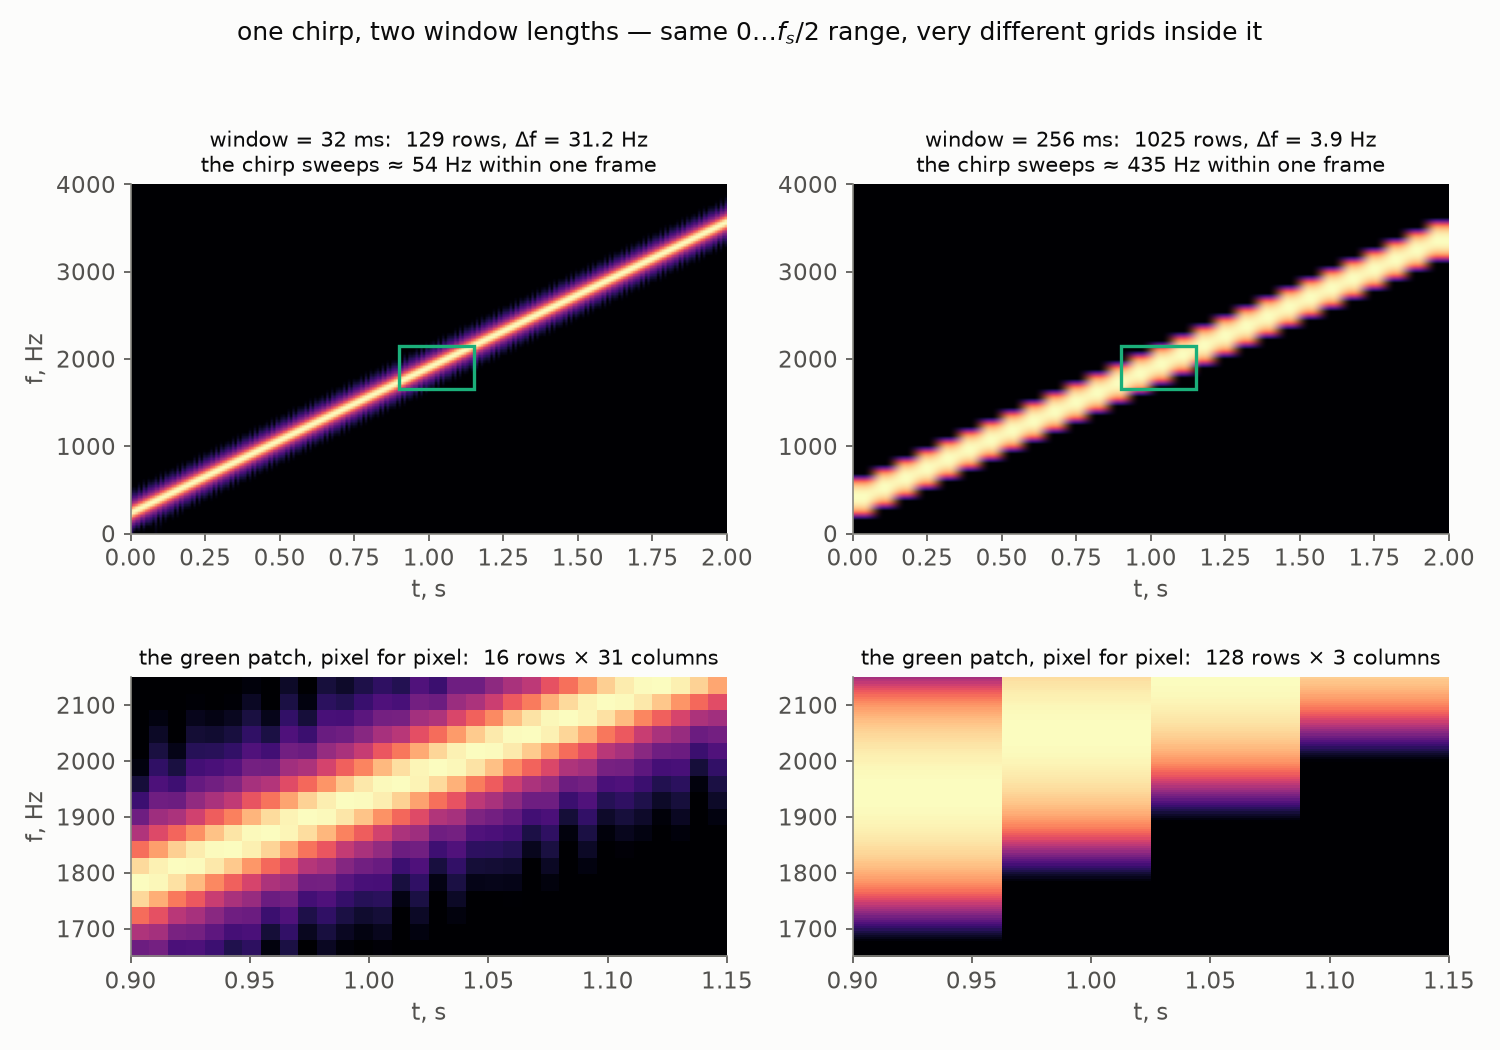
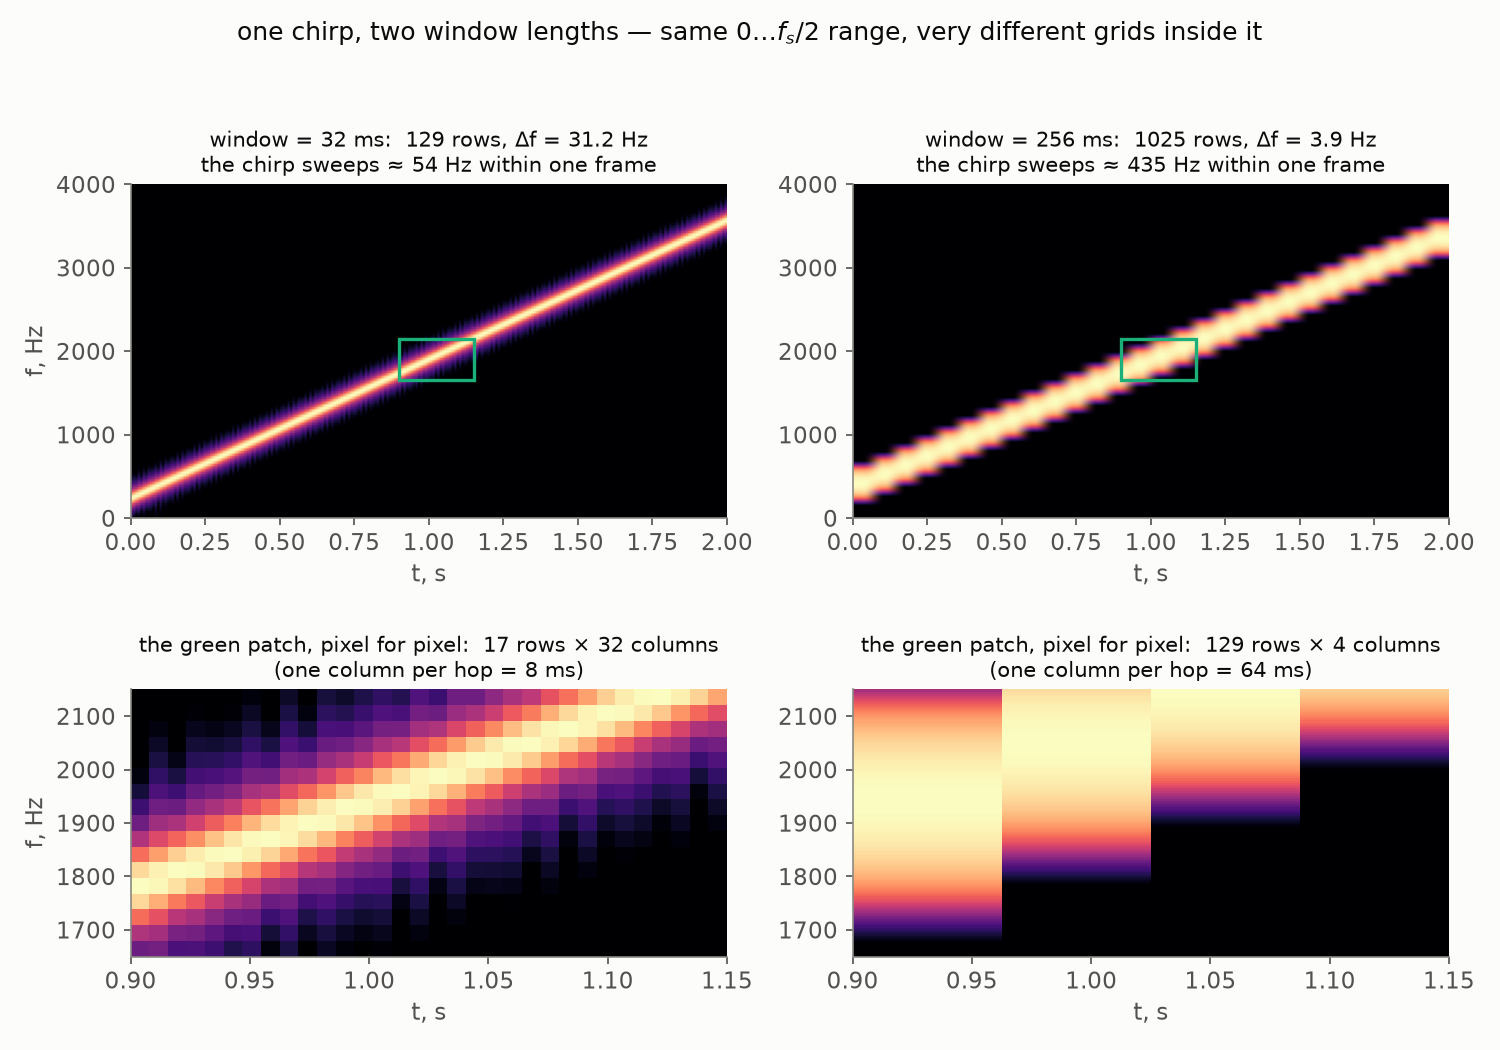
Chirp zooms: fix off-by-one pixel counts (17x32, 129x4), explain columns-per-hop

diff --git a/content/posts/fourier-series-to-spectrogram-part-3/index.md b/content/posts/fourier-series-to-spectrogram-part-3/index.md
@@ -241,11 +241,16 @@ it: the left picture has $129$ rows spaced $31.2$ Hz apart, the right one
 $1025$ rows spaced $3.9$ Hz apart — eight times finer, on paper. The bottom
 row of the figure makes the grids visible: it re-plots the *same* green
 patch — $500$ Hz by a quarter of a second — from each picture, pixel for
-pixel. On the left the patch is spanned by $16$ chunky rows and $31$
-columns; on the right, by $128$ fine rows but only *three* columns. The
+pixel. On the left the patch is spanned by $17$ chunky rows and $32$
+columns; on the right, by $129$ fine rows but only *four* columns. The
 long window's grid is finer along frequency and far coarser along time —
 and every pixel of a spectrogram is exactly one (frame, bin) cell of the
-STFT, so the pixels *are* the grid.
+STFT, so the pixels *are* the grid. (Where does the column count come
+from? One column per hop, and we hop by a quarter of the window — $8$ ms
+on the left, $64$ ms on the right. A smaller hop would draw more columns,
+but they would be near-duplicates: neighboring frames share three quarters
+of their samples. The honest time resolution is set by the window length
+itself; the hop only chooses how densely you sample it.)
 
 Now the arithmetic of what each column actually sees. The chirp climbs at
 $(3600 - 200)/2 = 1700$ Hz per second. During one $32$ ms frame it sweeps
